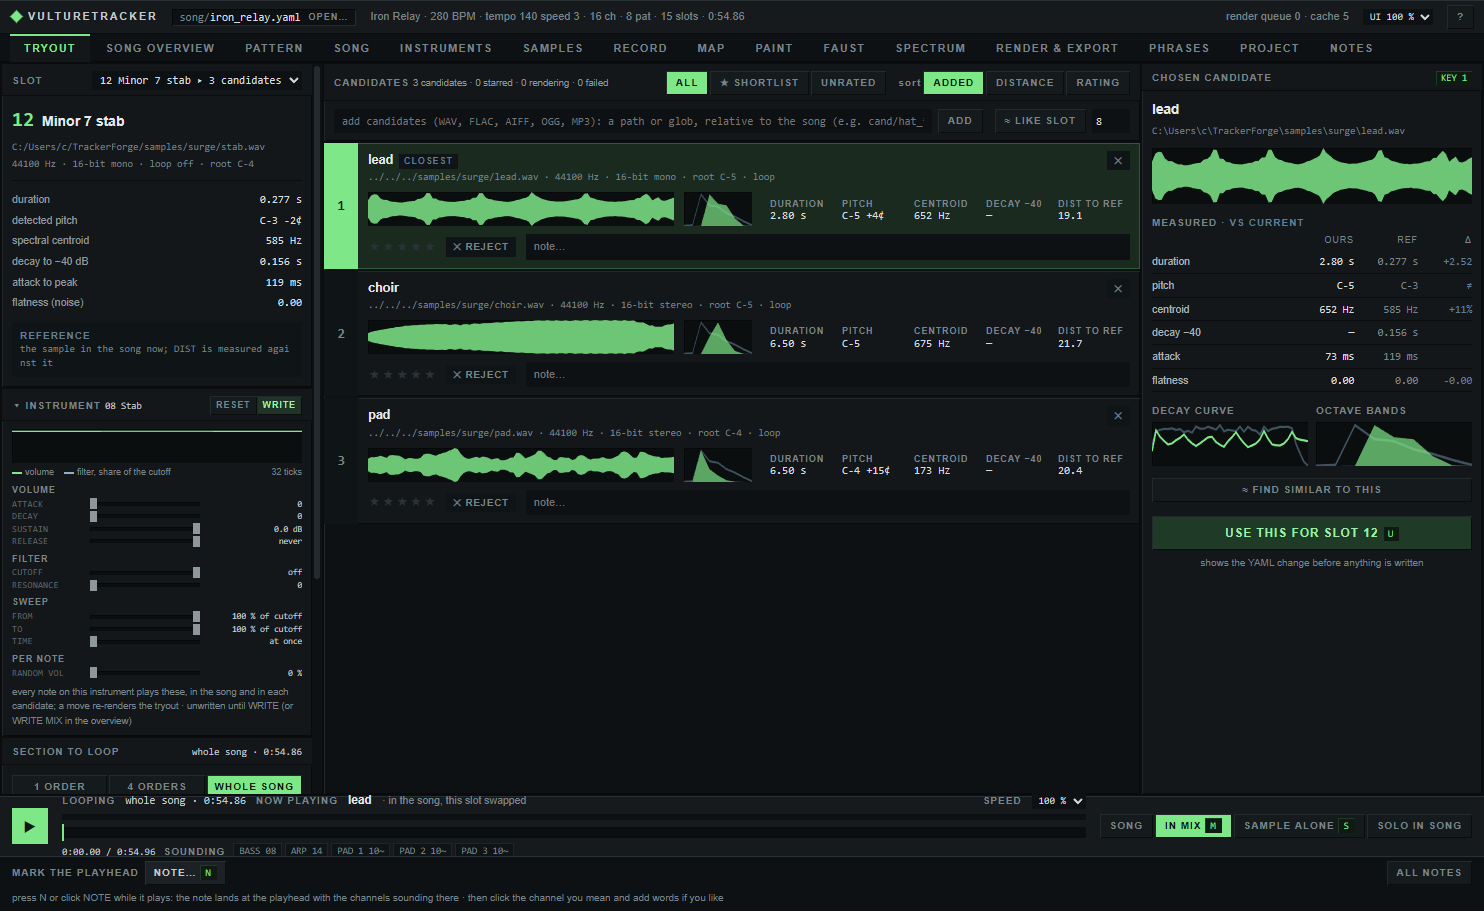
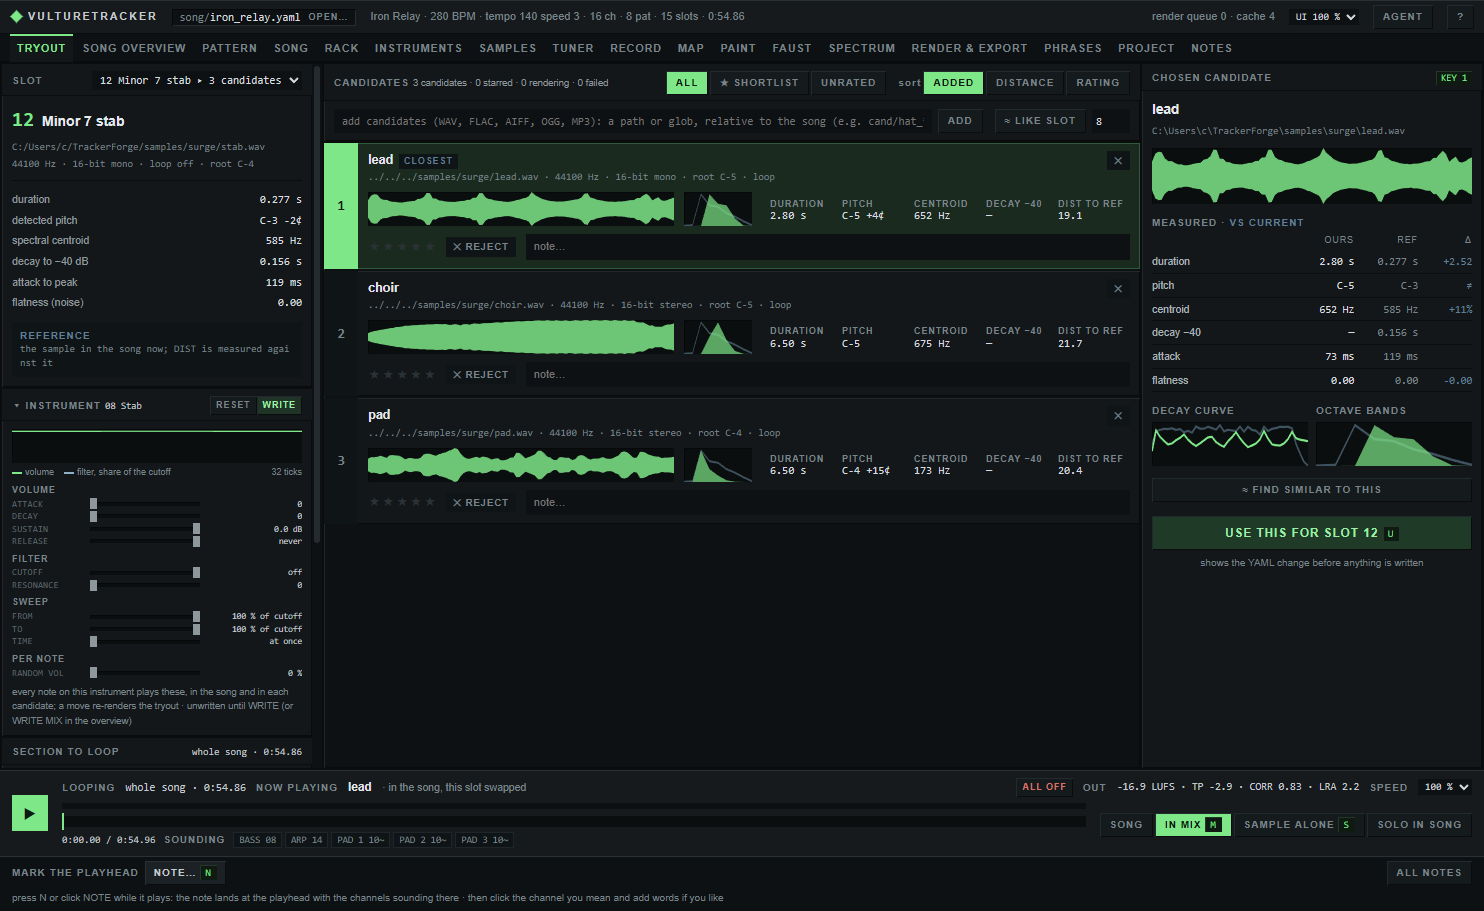
README for 1.6: shorter, the new features, new screenshots
The feature list now names automation lanes, microtuning, the built-in
sound sources, per-order loudness, SoundFont/GUS import, MIDI and
high-resolution export and the agent tools; the install, privacy, docs and
credits sections are tighter (THIRD_PARTY.md keeps the full list). The
screenshots are retaken in 1.6.0: Pattern (lanes and channel colours),
Tryout, and SPECTRUM (per-order loudness) in place of Samples.

Changed region(s): [[0.0, 0.0, 0.9609, 0.0615], [0.0, 0.8299, 0.372, 0.9528], [0.6509, 0.8606, 0.9919, 0.9221]]

diff --git a/README.md b/README.md
@@ -3,38 +3,44 @@
 <img src="assets/vulturetracker.png" width="88" align="right" alt="">
 
 Tracker music as text, with a tracker built on it. A song is a readable YAML file that compiles to an Impulse Tracker
-module (`.it`), checked by libopenmpt and playable in OpenMPT, Schism Tracker or anything built on libopenmpt. The app
-edits that same file in place: every change is checked by compiling the whole song before it is written, and can be
-undone. People, scripts and AIs edit songs the same way.
+module (`.it`), checked by libopenmpt and playable in OpenMPT or Schism Tracker. The app edits that same file in place;
+every change compiles before it is written and can be undone, so people, scripts and AI agents edit songs the same way.
 
 ```
-song.yaml ──build──▶ song.it ──render──▶ song.wav / .mp3 / .ogg / .flac
+song.yaml ──build──▶ song.it ──render──▶ .wav / .mp3 / .ogg / .flac / .mid
 ```
 
-<p align="center"><img src="assets/screenshot-pattern.png" width="900" alt="Pattern tab: the pattern editor with the live bar, the edit tools and the composition helpers"></p>
+<p align="center"><img src="assets/screenshot-pattern.png" width="900" alt="Pattern tab: the pattern editor with coloured channels, two automation lanes drawn dimmed, and the selection and composition tools"></p>
 <p align="center"><img src="assets/screenshot-tryout.png" width="900" alt="Tryout tab: candidate sounds rendered inside the song and measured against the current sample"></p>
-<p align="center"><img src="assets/screenshot-samples.png" width="900" alt="Samples tab: a waveform with its loop and a selection, the edits and effects that write new WAVs, and the sample's properties"></p>
+<p align="center"><img src="assets/screenshot-spectrum.png" width="900" alt="Spectrum tab: the song's spectrogram with each order's short-term loudness and stereo correlation underneath"></p>
 
 ## What it does
 
-- **A tracker on a text file:** patterns, instruments with envelopes, samples and the order list, with OpenMPT's keys,
-  MIDI input and a live engine (libopenmpt in the page) that plays every edit where it is.
+- **A tracker on a text file:** patterns, instruments and the order list with OpenMPT's keys and behaviour, MIDI input,
+  and a live engine that plays every edit. Automation lanes, microtuning (Scala `.scl`/`.kbm`), arpeggios, strums,
+  grooves and OpenMPT's interpolate, grow and shrink.
 - **Choosing sounds in context:** the Tryout renders candidate samples inside the song and measures them; a mixer,
-  listening notes, and a sample library searched by timbre.
-- **Making sounds:** a sample editor with effects and slicing, recording from an audio interface, Faust code, pictures
-  painted into sound, and sample recipes rendered from free synths ([SAMPLING.md](SAMPLING.md)).
-- **In and out:** imports IT, XM, S3M, MOD, Guitar Pro 3-5 and MIDI files and WAV, FLAC, AIFF, OGG and MP3 samples;
-  exports WAV, MP3, OGG and FLAC, stems and game loops.
-- **Files that stay right:** undo history and checkpoints kept with the song, every song from 0.6 on opening unchanged
-  in every 1.x ([SONG_FORMAT.md](SONG_FORMAT.md)), and a command line that does what the app does.
+  listening notes, and a sample library mapped by timbre.
+- **Making sounds:** a sample editor with effects and slicing, recording from an audio interface, Faust, painted
+  spectra, and recipes rendered from free synths or built-in sources (chip waves, sfxr, DrumSynth, PADsynth)
+  ([SAMPLING.md](SAMPLING.md)).
+- **Measuring, not guessing:** loudness (LUFS, true peak, LRA) per order, a spectrogram against a reference recording,
+  and checks that warn before a sample aliases.
+- **In and out:** imports IT, XM, S3M, MOD, Guitar Pro 3-5, MIDI, SoundFont 2 and GUS patches and common audio formats
+  (and Hydrogen drum kits as sample sources); exports WAV (up to 96 kHz, 24-bit or float), MP3, OGG, FLAC, MIDI, stems
+  and game loops, with optional loudness normalising.
+- **Agents:** an AGENT panel and an MCP server give an AI the same tools as the page, with the owner's approved
+  material protected.
+- **Files that stay right:** undo history and checkpoints kept with the song, and every song from 0.6 on opening
+  unchanged in every 1.x ([SONG_FORMAT.md](SONG_FORMAT.md)).
 
 ## Install
 
 **Windows:** download `vulturetracker-win64.zip` from the [latest release](https://github.com/shadoh420/VultureTracker/releases/latest),
-unzip it anywhere and run `vulturetracker.exe`. The start screen lists two demo songs.
+unzip it and run `vulturetracker.exe`.
 
-**From source** (Python 3.10+; every push runs the tests on Windows with Python 3.14 and on Linux with 3.10 and 3.14,
-macOS is untested; outside Windows install libopenmpt, e.g. `apt install libopenmpt0t64`):
+**From source** (Python 3.10+; tested on Windows and Linux; outside Windows install libopenmpt, e.g.
+`apt install libopenmpt0t64`):
 
 ```
 git clone https://github.com/shadoh420/VultureTracker.git
@@ -43,67 +49,50 @@ pip install -e ".[all]"
 python -m vulturetracker gui demo2/iron_relay.yaml
 ```
 
-[GUIDE.md](GUIDE.md#setup) says what each extra adds and what stays Windows-only.
-
-## Privacy and security
-
-The app is a local HTTP server bound to 127.0.0.1 only. It has no telemetry and makes no network call except the
-downloads you start (Surge XT, Dexed, faustwasm, verified against pinned SHA-256 digests) and the AGENT panel's chat,
-which sends the open song's text to the provider you chose (the Anthropic API, a local OpenAI-compatible server, or
-Claude Code on your own login). Its settings and any API key stay in your user folder (`%APPDATA%\VultureTracker` on
-Windows), never beside a song. [SECURITY.md](SECURITY.md) says how to report a vulnerability privately.
-
-**Verify the download:** each release's body lists the SHA-256 of `vulturetracker.exe`, `ffmpeg.exe` and
-`vulturetracker-win64.zip`. On Windows run `certutil -hashfile vulturetracker.exe SHA256`, elsewhere
-`sha256sum vulturetracker.exe`, and compare with the release page. The exe is not code-signed.
-
 ## Use
 
 ```
 python -m vulturetracker gui song.yaml                     # the app (no song: open, new song, import)
 python -m vulturetracker check song.yaml                   # validate; errors show file:line
 python -m vulturetracker build song.yaml --render song.wav # compile, verify with libopenmpt, render
-python -m vulturetracker import some.xm -o some.yaml       # a module, a Guitar Pro tab or a MIDI file -> song file
+python -m vulturetracker import some.xm -o some.yaml       # a module, tab, MIDI file or SoundFont -> song file
 python -m vulturetracker --help                            # every command
 ```
 
+## Privacy and security
+
+The app is a local server on 127.0.0.1 with no telemetry. It goes online only for downloads you start (checked against
+pinned SHA-256 digests) and for the AGENT panel, which sends the open song to the provider you chose. Settings and API
+keys stay in your user folder. Each release lists the SHA-256 of its files (`certutil -hashfile vulturetracker.exe
+SHA256` on Windows); the exe is not code-signed. [SECURITY.md](SECURITY.md) explains private vulnerability reports.
+
 ## Reporting a problem
 
-Open an issue with the bug form (https://github.com/shadoh420/VultureTracker/issues/new/choose): the version, the steps,
-and the app's log, `%APPDATA%\VultureTracker\vulturetracker.log` on Windows (`~/Library/Application
-Support/VultureTracker` on macOS, `~/.config/VultureTracker` elsewhere); attach the song if you can share it. A
-security problem goes through private reporting instead ([SECURITY.md](SECURITY.md)).
+Use the [bug form](https://github.com/shadoh420/VultureTracker/issues/new/choose) with the version, the steps and the
+app's log, `%APPDATA%\VultureTracker\vulturetracker.log` on Windows (`~/Library/Application Support/VultureTracker` on
+macOS, `~/.config/VultureTracker` elsewhere), and the song if you can share it. Security problems go through
+[SECURITY.md](SECURITY.md) instead.
 
 ## Docs
 
-- [GUIDE.md](GUIDE.md): the app tab by tab, the command line, the demos, samples, tests
-- [SONG_FORMAT.md](SONG_FORMAT.md): the complete song format
-- [SAMPLING.md](SAMPLING.md): making samples with Surge XT, Dexed, OB-Xd, Faust and CC0 recordings
-- [CHANGELOG.md](CHANGELOG.md): what changed in each release
-- [PROVENANCE.md](PROVENANCE.md): what the demos derive from reference material
-- [AGENTS.md](AGENTS.md): orientation for people and AI agents working on the repository
+[GUIDE.md](GUIDE.md) (the app and the command line) · [SONG_FORMAT.md](SONG_FORMAT.md) (the song format) ·
+[SAMPLING.md](SAMPLING.md) (making samples) · [CHANGELOG.md](CHANGELOG.md) · [PROVENANCE.md](PROVENANCE.md) (what the
+demos take from references) · [AGENTS.md](AGENTS.md) (for people and AI agents working on the code)
 
 ## Credits and licenses
 
-VultureTracker is MIT licensed ([LICENSE](LICENSE)) and stands on other people's work:
+VultureTracker's code is MIT licensed ([LICENSE](LICENSE)). It builds on:
 
-- [libopenmpt](https://lib.openmpt.org) by the OpenMPT project (BSD-3-Clause) verifies and renders every module. Its
-  Windows build in `vendor/` and inside the exe also carries mpg123 (LGPL-2.1, shipped as a separate DLL you can
-  replace), libogg and libvorbis from Xiph.Org (BSD-3-Clause) and zlib. License texts are in `vendor/Licenses/`.
-- The live engine is libopenmpt's official WebAssembly build (BSD-3-Clause and BSL-1.0, with minimp3, miniz and
-  stb_vorbis compiled in), in `vulturetracker/web/` with its license texts.
-- The exe bundles Python (PSF), pywebview (BSD-3-Clause) with Microsoft's WebView2 SDK loader, pythonnet (MIT),
-  NumPy (BSD-3-Clause), PyYAML (MIT), mido (MIT), sounddevice with PortAudio (MIT), PyGuitarPro (LGPL-3.0) and [pedalboard](https://github.com/spotify/pedalboard) (GPL-3.0,
-  the synth host), packed by PyInstaller; because of pedalboard the exe as a whole is distributed under the GPL-3.0,
-  while this repository's code stays MIT ([THIRD_PARTY.md](THIRD_PARTY.md)). [FFmpeg](https://ffmpeg.org) (GPL-3.0) ships beside it as a separate program for the
-  encoded exports.
-- The demo samples credit their sources in `samples/demo3/ATTRIBUTION.md` and `samples/demo4/ATTRIBUTION.md`: CC0
-  recordings by Karoryfer Samples and Versilian Studios, renders from Surge XT, Dexed and OB-Xd (GPL-3 programs run
-  separately; the audio they render is not GPL), and MusicRadar's royalty-free packs, which are not redistributed.
-- demo4 has UT99's Foregone Destruction (Epic Games; composed by Michiel van den Bos) as its stylistic reference for
-  grid and layer plan. No audio, melody or sample data from it is included; [PROVENANCE.md](PROVENANCE.md) says exactly
-  what was taken and what was changed.
-- The Impulse Tracker writer follows [ITTECH.TXT](https://github.com/schismtracker/schismtracker/wiki/ITTECH.TXT)
-  and was checked against OpenMPT's loader.
+- [libopenmpt](https://lib.openmpt.org) (BSD-3-Clause), which verifies and renders every module, natively and as its
+  WebAssembly build in the page. The Windows build carries mpg123 (LGPL-2.1, a separate replaceable DLL), libogg and
+  libvorbis (BSD-3-Clause) and zlib; license texts are in `vendor/Licenses/` and `vulturetracker/web/`.
+- The exe bundles Python, pywebview, pythonnet, NumPy, PyYAML, mido, sounddevice with PortAudio, PyGuitarPro (LGPL-3.0)
+  and [pedalboard](https://github.com/spotify/pedalboard) (GPL-3.0). Because of pedalboard the exe as a whole is GPL-3.0,
+  while this repository stays MIT. [FFmpeg](https://ffmpeg.org) (GPL-3.0) ships beside it as a separate program.
+- The demo samples credit their sources in `samples/*/ATTRIBUTION.md` (CC0 recordings by Karoryfer Samples and
+  Versilian Studios; renders from Surge XT, Dexed and OB-Xd). demo4 takes UT99's Foregone Destruction (Epic Games,
+  composed by Michiel van den Bos) as a stylistic reference only; [PROVENANCE.md](PROVENANCE.md) says what was taken.
+- The IT writer follows [ITTECH.TXT](https://github.com/schismtracker/schismtracker/wiki/ITTECH.TXT) and OpenMPT's
+  loader.
 
-Versions and where each license text lives: [THIRD_PARTY.md](THIRD_PARTY.md).
+Every component, version and license text: [THIRD_PARTY.md](THIRD_PARTY.md).
